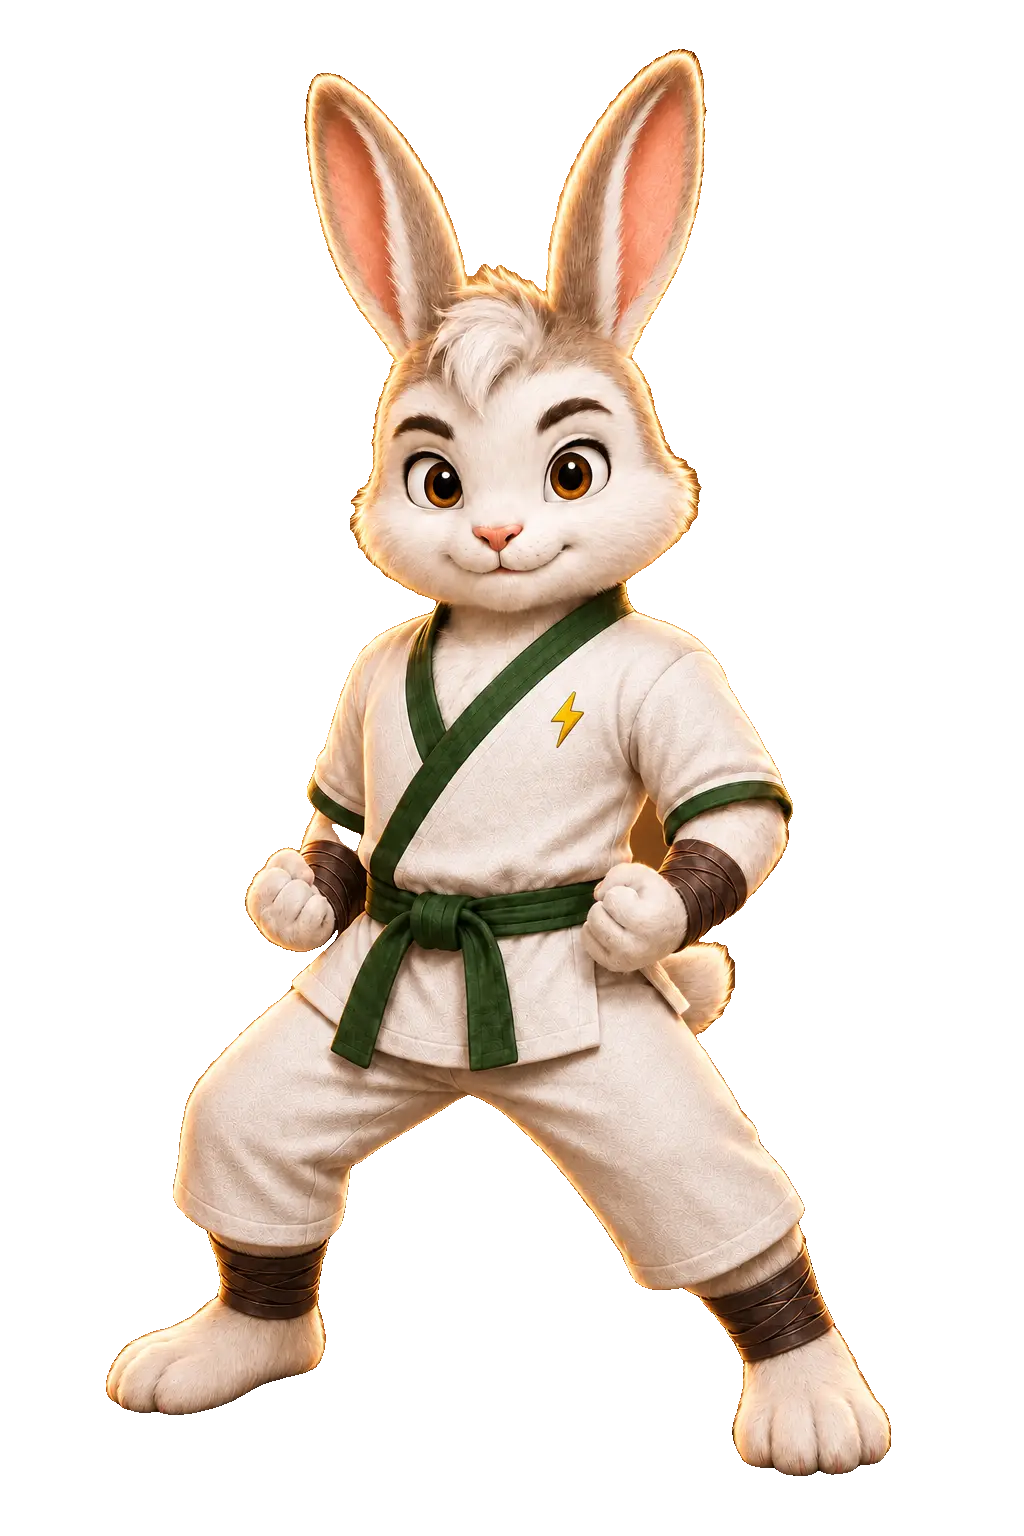
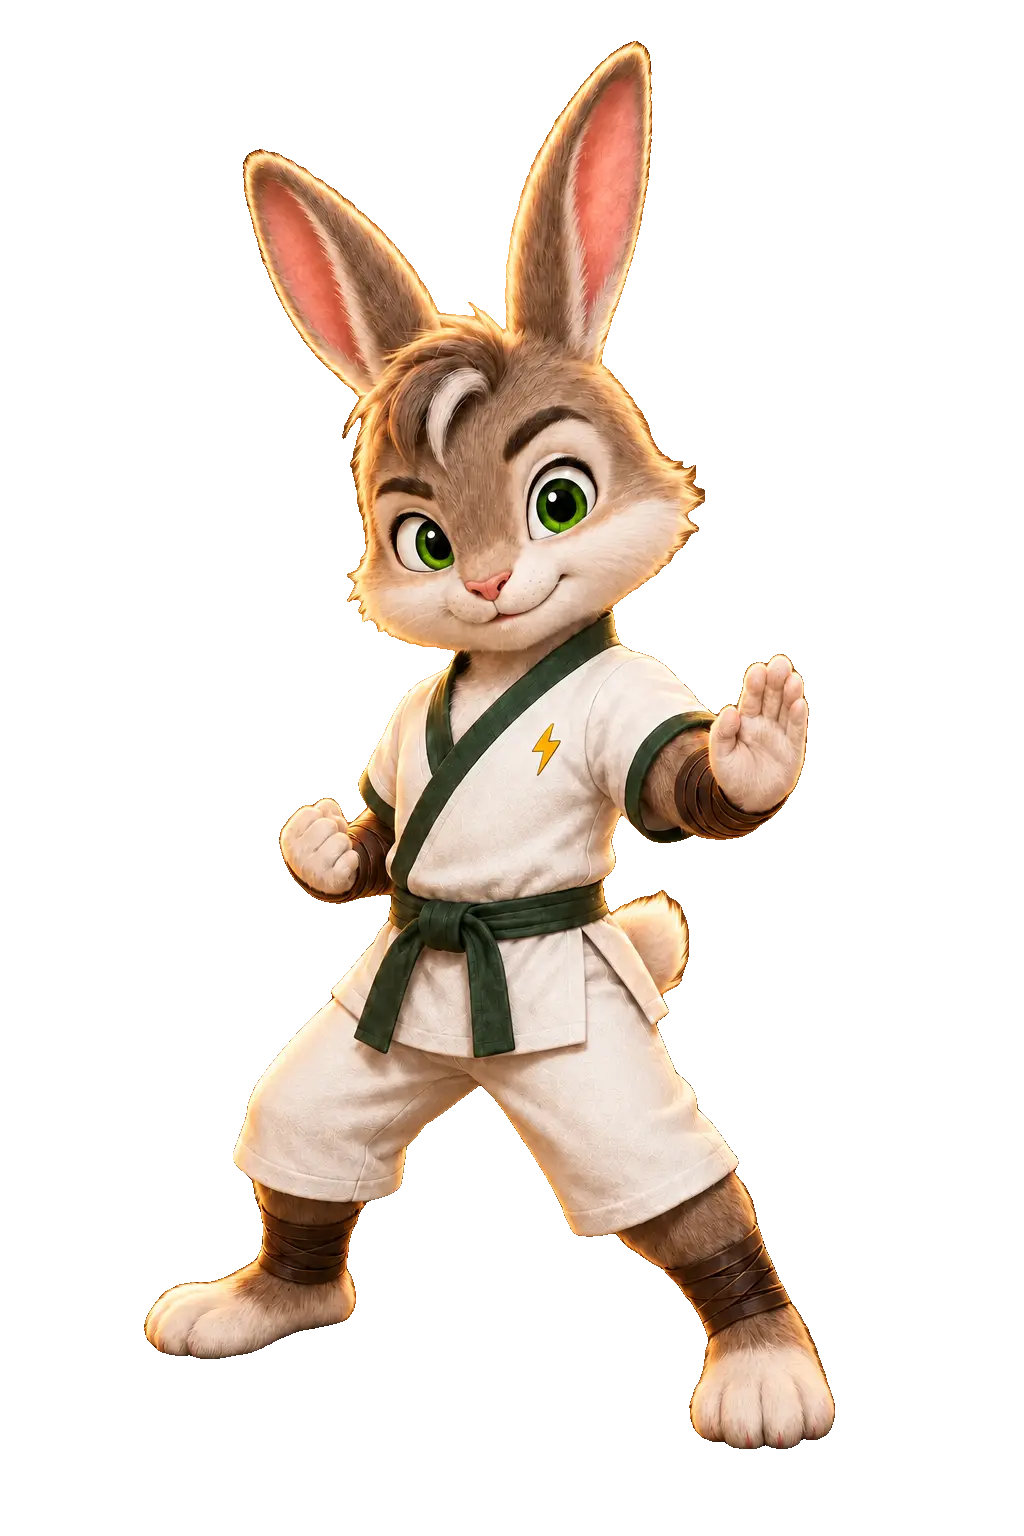
Correct Raigo and Raiko canon: swap portraits, mark both five-year-old brothers and align strong/fast roles

Changed region(s): [[0.0938, 0.0312, 0.875, 0.9688]]

diff --git a/index.html b/index.html
@@ -207,12 +207,12 @@
   <div class="character-body"><div class="character-role">Captain of the Guard · Mother</div><h3>Hikari</h3><p>She carries the weight of two worlds — one as a commander, the other as a mother. To protect those she loves and those she leads, she has sacrificed more of herself than anyone will ever know.</p><button type="button" class="profile-trigger" data-character="hikari" aria-label="Explore Hikari's character profile">Explore character <span aria-hidden="true">↗</span></button></div>
 </article>
 <article class="character character--raigo" hidden>
-  <div class="character-media"><img loading="lazy" src="family-cutouts-v2/raigo.png" width="1024" height="1536" alt="Raigo, young rabbit warrior in white training clothes with green trim"></div>
-  <div class="character-body"><div class="character-role">Age 5 · Younger Brother</div><h3>Raigo</h3><p>Strong-willed and determined, Raigo carries a quiet intensity. Beneath his calm presence lies a fierce spirit ready to protect those he loves.</p><button type="button" class="profile-trigger" data-character="raigo" aria-label="Explore Raigo's character profile">Explore character <span aria-hidden="true">↗</span></button></div>
+  <div class="character-media"><img loading="lazy" src="family-cutouts-v2/raigo.png" width="1024" height="1536" alt="Raigo, five-year-old white rabbit with brown eyes, wearing white training clothes with green trim"></div>
+  <div class="character-body"><div class="character-role">Age 5 · Younger Brother · The Strong One</div><h3>Raigo</h3><p>Strong-willed and determined, Raigo carries a quiet intensity. Beneath his calm presence lies a fierce spirit ready to protect those he loves.</p><button type="button" class="profile-trigger" data-character="raigo" aria-label="Explore Raigo's character profile">Explore character <span aria-hidden="true">↗</span></button></div>
 </article>
 <article class="character character--raiko" hidden>
-  <div class="character-media"><img loading="lazy" src="family-cutouts-v2/raiko.png" width="1024" height="1536" alt="Raiko, young rabbit warrior in white training clothes with green trim"></div>
-  <div class="character-body"><div class="character-role">Age 5 · Younger Sister</div><h3>Raiko</h3><p>Bright, spirited, and full of heart, Raiko brings youthful energy and courage. Her path is shaped by curiosity, loyalty, and the will to grow stronger.</p><button type="button" class="profile-trigger" data-character="raiko" aria-label="Explore Raiko's character profile">Explore character <span aria-hidden="true">↗</span></button></div>
+  <div class="character-media"><img loading="lazy" src="family-cutouts-v2/raiko.png" width="1024" height="1536" alt="Raiko, five-year-old gray-brown rabbit with green eyes, wearing white training clothes with green trim"></div>
+  <div class="character-body"><div class="character-role">Age 5 · Younger Brother · The Fast One</div><h3>Raiko</h3><p>Bright, spirited, and full of heart, Raiko brings youthful energy and courage. His path is shaped by curiosity, loyalty, and the will to grow stronger.</p><button type="button" class="profile-trigger" data-character="raiko" aria-label="Explore Raiko's character profile">Explore character <span aria-hidden="true">↗</span></button></div>
 </article>
 </div>
 <button class="family-arrow family-arrow-next" type="button" id="family-next" aria-label="Next family member" title="Next family member">›</button>
@@ -260,20 +260,20 @@
       alt: "Hikari, rabbit guard captain in dark samurai armor"
     }    ,
     raigo: {
-      title: "Raigo", role: "Age 5 · Younger Brother",
+      title: "Raigo", role: "Age 5 · Younger Brother · The Strong One",
       quote: "Strength means standing firm when others need you most.",
       description: "Raigo is steady, focused, and deeply protective. He may speak less than others, but his presence carries weight. Beneath his composed exterior is a young warrior shaped by loyalty, discipline, and the instinct to stand between danger and the people he cares about.",
       traits: "Loyalty · Resolve · Protection",
       image: "family-cutouts-v2/raigo.png",
-      alt: "Raigo, young rabbit warrior in white training clothes with green trim"
+      alt: "Raigo, five-year-old white rabbit with brown eyes, wearing white training clothes with green trim"
     },
     raiko: {
-      title: "Raiko", role: "Age 5 · Younger Sister",
+      title: "Raiko", role: "Age 5 · Younger Brother · The Fast One",
       quote: "A brave heart keeps moving, even when the road is uncertain.",
-      description: "Raiko is spirited, warm, and full of potential. She faces the world with curiosity and heart, carrying both kindness and inner fire. As she grows, her journey is defined by courage, compassion, and the desire to become stronger without losing who she is.",
+      description: "Raiko, the younger brother known for his speed, is spirited, warm, and full of potential. He faces the world with curiosity and heart, carrying both kindness and inner fire. As he grows, his journey is defined by courage, compassion, and the desire to become stronger without losing who he is.",
       traits: "Courage · Heart · Growth",
       image: "family-cutouts-v2/raiko.png",
-      alt: "Raiko, young rabbit warrior in white training clothes with green trim"
+      alt: "Raiko, five-year-old gray-brown rabbit with green eyes, wearing white training clothes with green trim"
     }
   };
   const dialog = document.getElementById("character-profile");
